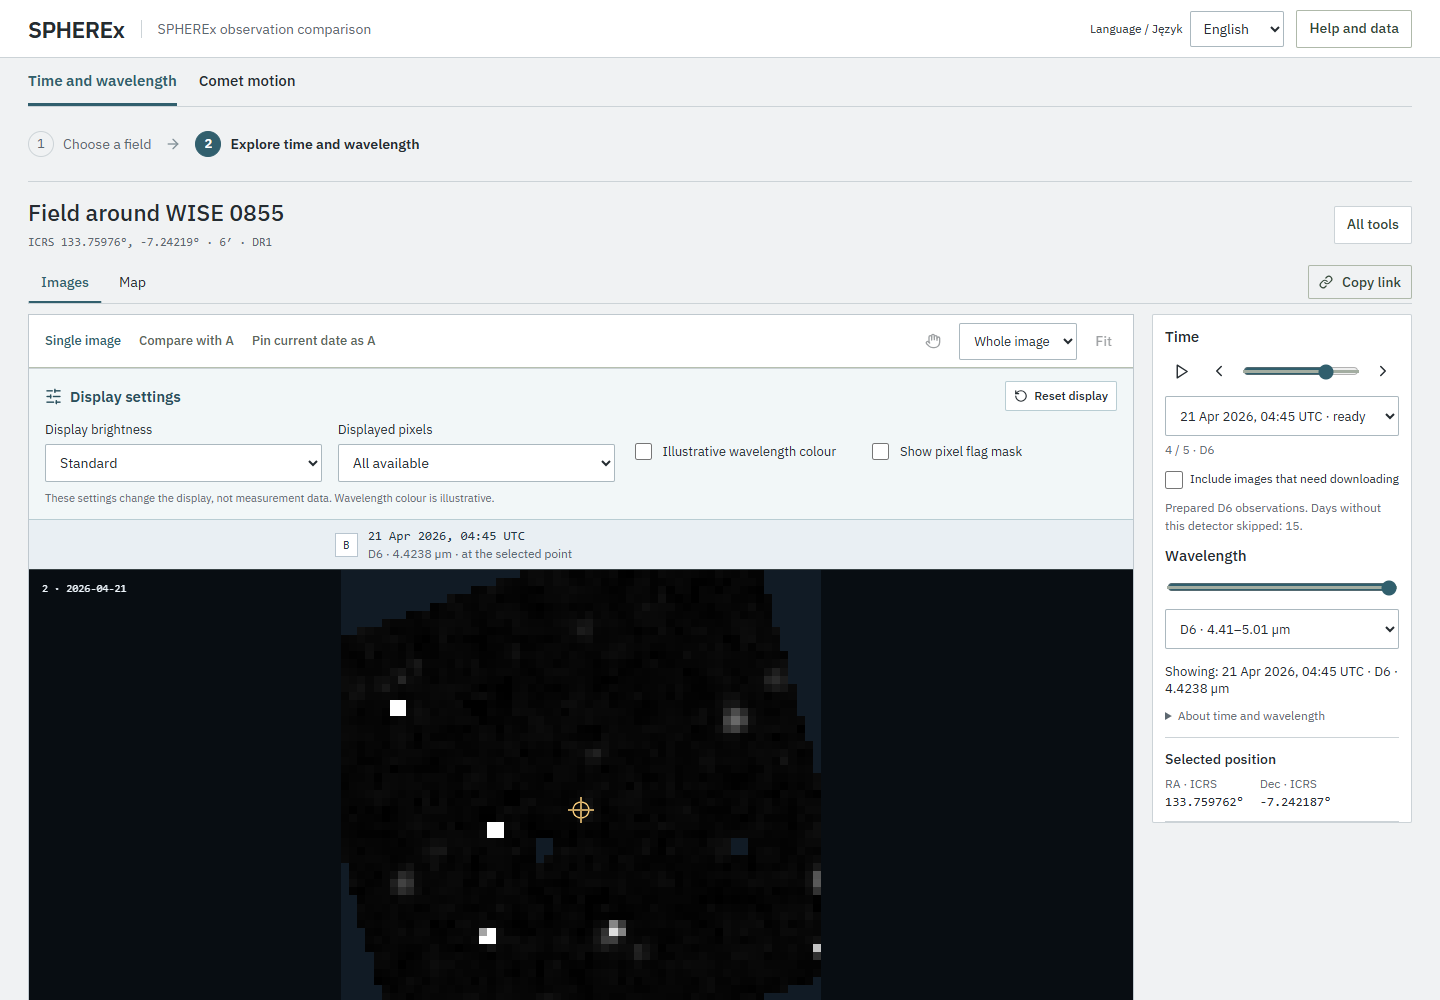
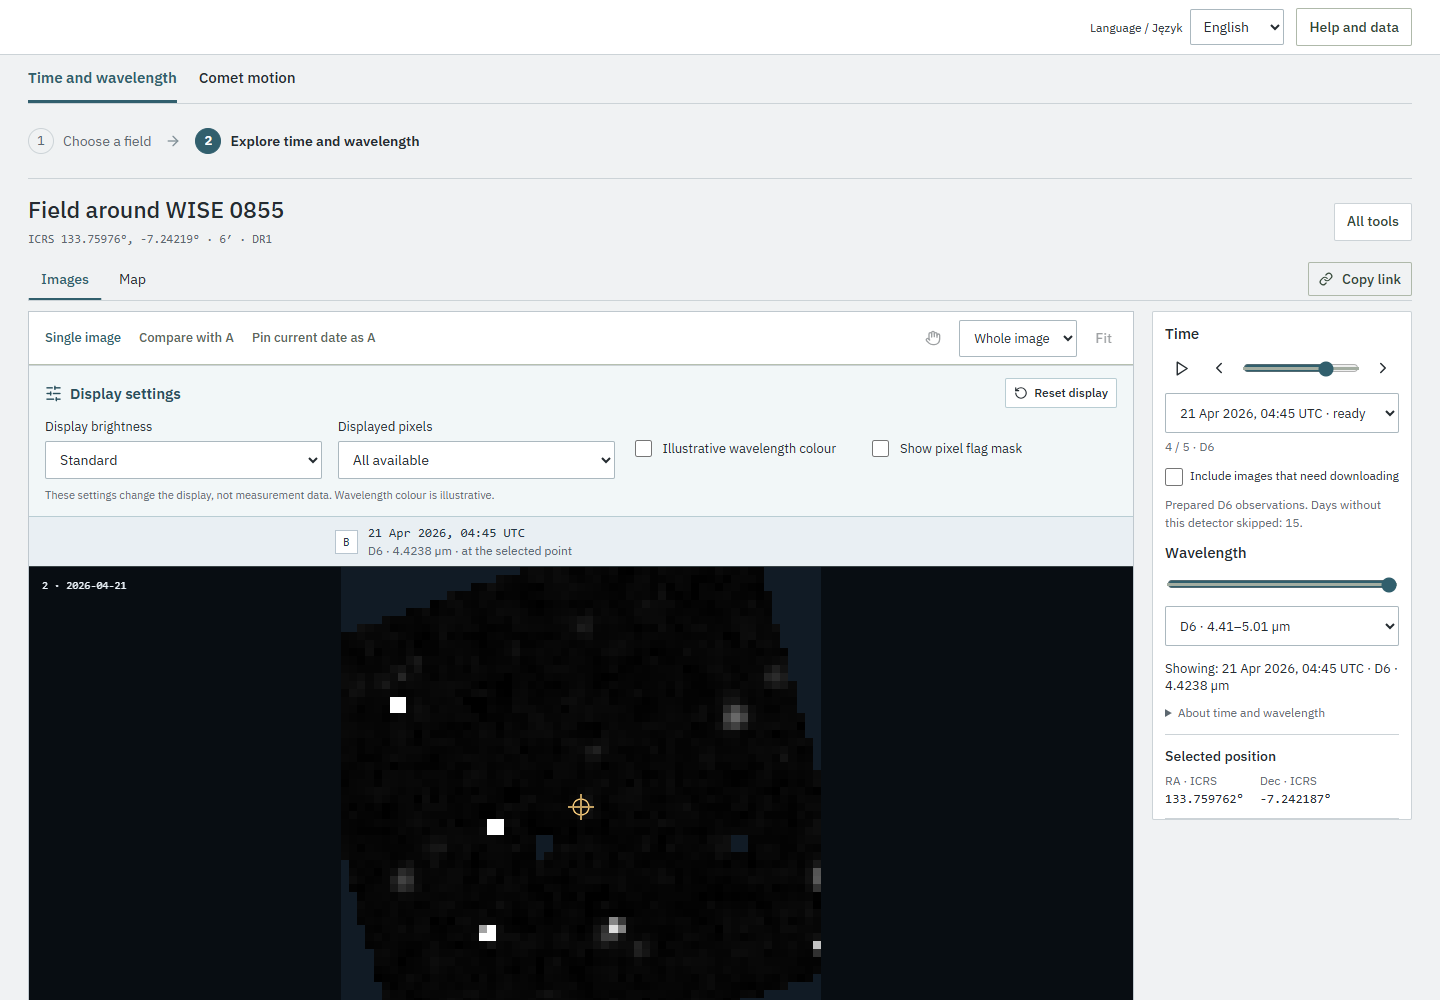
Refresh portfolio previews after removing demo wordmarks

diff --git a/docs/impeccable-demo-review.md b/docs/impeccable-demo-review.md
@@ -56,3 +56,7 @@ Publiczne pliki sprawdzono przez HTTP: **42/42** zasobów aplikacji i **11/11** 
 Kod portfolio: `acd486931621a0cca3601d6ff1e2a887f9b92c4c`. [Publikacja Pages](https://github.com/Adam-Sapiecha/Portfolio-AdamSapiecha/actions/runs/43987127163) i [testy publicznych przepływów z niezależnego runnera GitHub](https://github.com/Adam-Sapiecha/Portfolio-AdamSapiecha/actions/runs/43987128608) zakończyły się powodzeniem. SPHEREx dodatkowo sprawdzono lokalną przeglądarką na jego publicznym adresie.
 
 Dokładne commity aplikacji, aktywne obrazy i sumę paczki zapisano w [manifeście wydania](impeccable-release-2026-11-17.json). Każdy katalog wydania na serwerze zawiera `ui-release.json` oraz prywatny, rozstrzygnięty plik `compose.ui.json` z zachowanymi ścieżkami danych. Ten ostatni jest receptą uruchomienia wydania i zawiera konfigurację wykonawczą; nie trafia do repozytorium. Raporty JSON, zrzuty i patche do przeglądu pozostają w ignorowanym katalogu `output/impeccable-20261117/`.
+
+## Uproszczenie pasków demo
+
+W kolejnym wydaniu `demo-headers-20261117` usunięto narożne nazwy i logotypy TaskMesh, Relay, SentinelHub, P·LAB oraz SPHEREx, a także promocyjne podpisy w stopkach. Zachowano potrzebne linki nawigacyjne i informacje o danych. Sprawdzono siedem publicznych widoków na komputerze i telefonie: bez elementów brandingowych w nagłówkach, błędów JavaScript i wykrytych naruszeń WCAG A/AA. Wszystkie pięć usług ma status `healthy`, a 43 publiczne zasoby zgadzają się z paczką. Zaktualizowano także pięć zrzutów w portfolio. [Manifest poprawki](demo-headers-release-2026-11-17.json).
